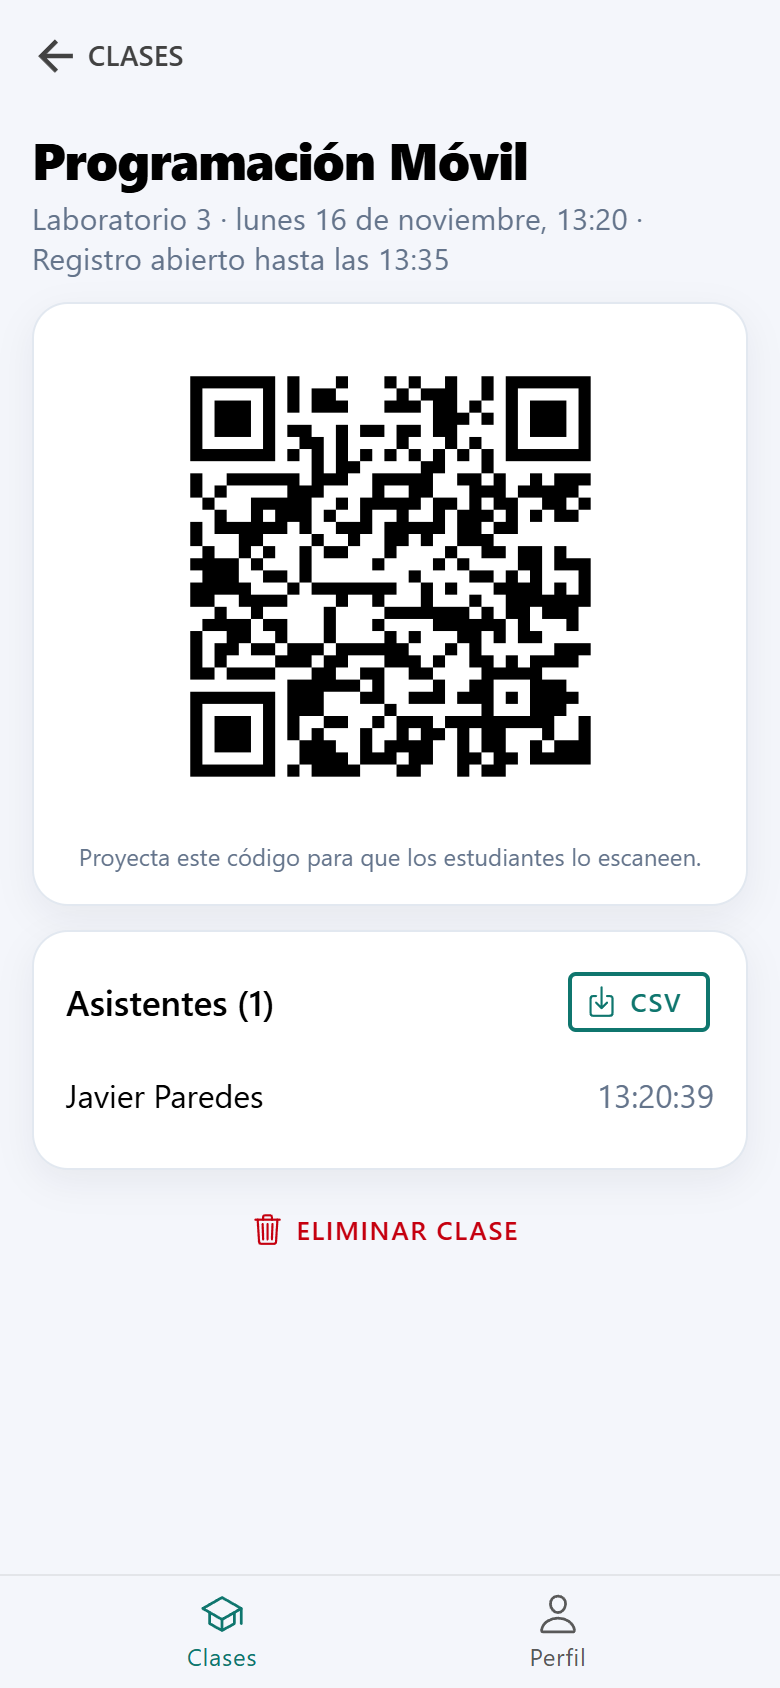
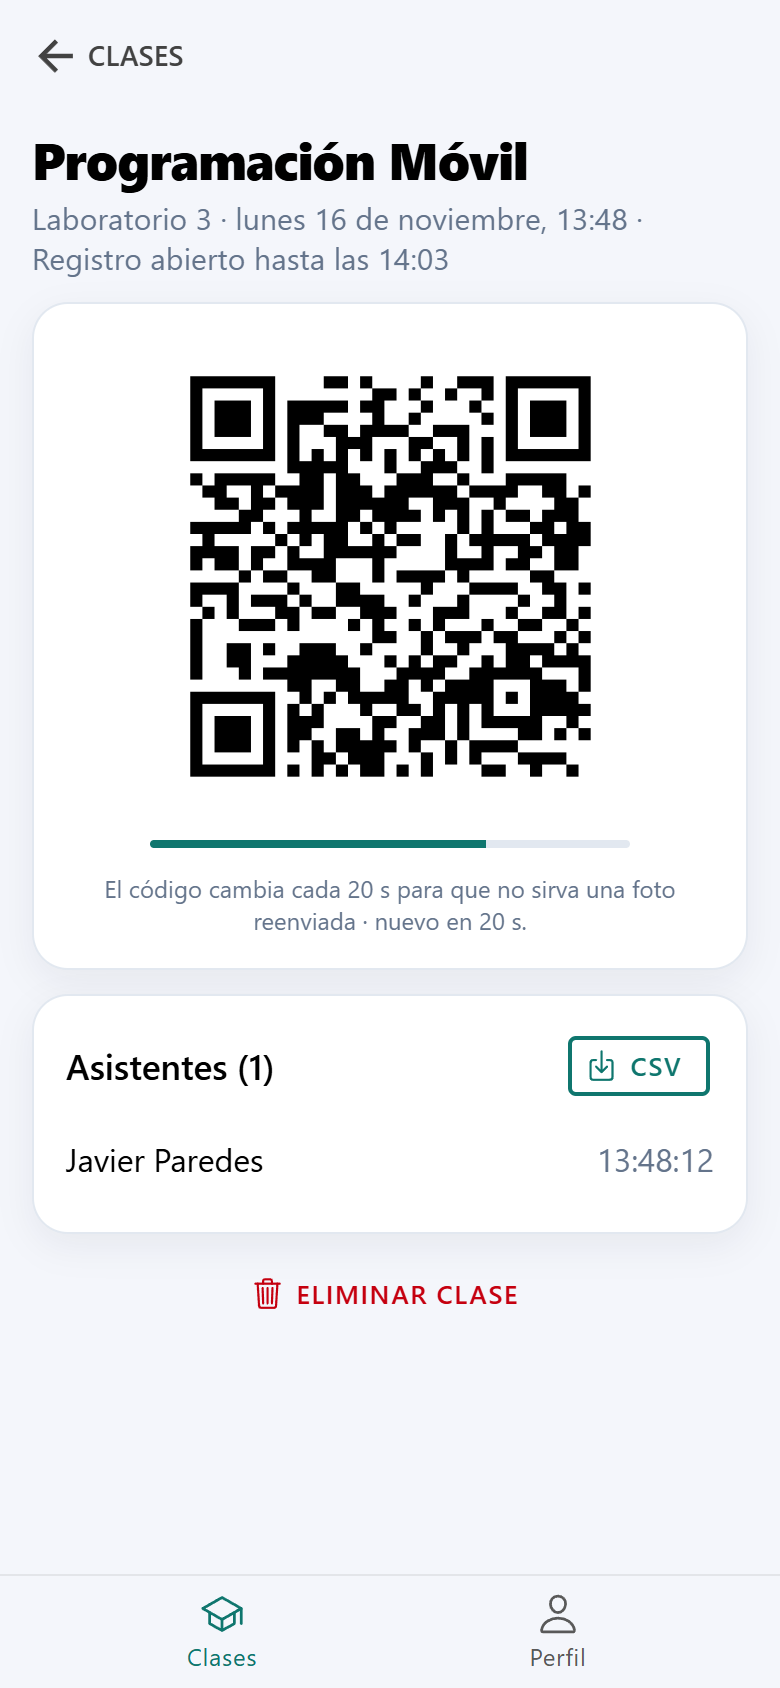
feat: rotating QR tokens, installable PWA
The class QR now changes every 20 seconds so forwarded photos expire.

diff --git a/src/app/pages/class-detail/class-detail.page.ts b/src/app/pages/class-detail/class-detail.page.ts
@@ -17,7 +17,7 @@ import QRCode from 'qrcode';
 
 import { Backend } from '../../core/backend';
 import type { Attendance, ClassSession } from '../../core/models';
-import { encodePayload, toCsv } from '../../core/qr';
+import { ROTATION_SECONDS, currentStep, encodePayload, rotatingToken, toCsv } from '../../core/qr';
 import { UiService } from '../../core/ui.service';
 
 @Component({
@@ -40,13 +40,21 @@ export class ClassDetailPage {
   protected readonly attendees = signal<Attendance[]>([]);
   protected readonly qr = signal('');
   protected readonly missing = signal(false);
+  /** Segundos que faltan para que el QR cambie. */
+  protected readonly remaining = signal(ROTATION_SECONDS);
+  protected readonly rotation = ROTATION_SECONDS;
+  private step = -1;
 
   constructor() {
     addIcons({ downloadOutline, trashOutline });
     effect(() => void this.load(this.id()));
     // Actualiza la lista de asistentes mientras la pantalla está abierta.
     const timer = setInterval(() => void this.refreshAttendees(), 4000);
-    inject(DestroyRef).onDestroy(() => clearInterval(timer));
+    const clock = setInterval(() => void this.tick(), 1000);
+    inject(DestroyRef).onDestroy(() => {
+      clearInterval(timer);
+      clearInterval(clock);
+    });
   }
 
   private async load(id: string): Promise<void> {
@@ -54,14 +62,27 @@ export class ClassDetailPage {
     this.missing.set(!session);
     this.session.set(session);
     if (!session) return;
+    this.step = -1;
+    await this.tick();
+    await this.refreshAttendees();
+  }
+
+  /** Actualiza la cuenta regresiva y regenera el QR cuando cambia la ventana de tiempo. */
+  private async tick(): Promise<void> {
+    const session = this.session();
+    if (!session) return;
+    const step = currentStep();
+    this.remaining.set(ROTATION_SECONDS - (Math.floor(Date.now() / 1000) % ROTATION_SECONDS));
+    if (step === this.step) return;
+    this.step = step;
+    const code = await rotatingToken(session.code, step);
     this.qr.set(
-      await QRCode.toDataURL(encodePayload({ sessionId: session.id, code: session.code }), {
+      await QRCode.toDataURL(encodePayload({ sessionId: session.id, code }), {
         width: 480,
         margin: 2,
         errorCorrectionLevel: 'M',
       }),
     );
-    await this.refreshAttendees();
   }
 
   private async refreshAttendees(): Promise<void> {

diff --git a/src/app/core/local.backend.spec.ts b/src/app/core/local.backend.spec.ts
@@ -1,5 +1,6 @@
 import { LocalBackend } from './local.backend';
 import { AppError } from './models';
+import { currentStep, rotatingToken } from './qr';
 
 describe('LocalBackend', () => {
   let backend: LocalBackend;
@@ -20,8 +21,9 @@ describe('LocalBackend', () => {
       startsAt: inMinutes(-5),
       expiresAt: inMinutes(30),
     });
-    await backend.checkIn(student, s.id, s.code);
-    await expect(backend.checkIn(student, s.id, s.code)).rejects.toBeInstanceOf(AppError);
+    const token = await rotatingToken(s.code);
+    await backend.checkIn(student, s.id, token);
+    await expect(backend.checkIn(student, s.id, token)).rejects.toBeInstanceOf(AppError);
     expect(await backend.listAttendance(s.id)).toHaveLength(1);
   });
 
@@ -41,7 +43,23 @@ describe('LocalBackend', () => {
       expiresAt: inMinutes(-30),
     });
     await expect(backend.checkIn(student, open.id, 'AAAAAA')).rejects.toBeInstanceOf(AppError);
-    await expect(backend.checkIn(student, closed.id, closed.code)).rejects.toBeInstanceOf(AppError);
+    await expect(backend.checkIn(student, closed.id, await rotatingToken(closed.code))).rejects.toBeInstanceOf(
+      AppError,
+    );
+  });
+
+  it('rechaza un QR antiguo y el código secreto sin rotar', async () => {
+    const teacher = await backend.signIn('docente@demo.cl', 'demo1234');
+    const student = await backend.signIn('alumno@demo.cl', 'demo1234');
+    const s = await backend.createSession(teacher, {
+      course: 'Redes',
+      room: 'D-1',
+      startsAt: inMinutes(-5),
+      expiresAt: inMinutes(30),
+    });
+    const stale = await rotatingToken(s.code, currentStep() - 5);
+    await expect(backend.checkIn(student, s.id, stale)).rejects.toBeInstanceOf(AppError);
+    await expect(backend.checkIn(student, s.id, s.code)).rejects.toBeInstanceOf(AppError);
   });
 
   it('elimina los registros al borrar una clase', async () => {
@@ -53,7 +71,7 @@ describe('LocalBackend', () => {
       startsAt: inMinutes(-1),
       expiresAt: inMinutes(20),
     });
-    await backend.checkIn(student, s.id, s.code);
+    await backend.checkIn(student, s.id, await rotatingToken(s.code));
     await backend.deleteSession(s.id);
     expect(await backend.listMyAttendance(student.uid)).toEqual([]);
   });

diff --git a/src/app/core/qr.ts b/src/app/core/qr.ts
@@ -1,7 +1,9 @@
 const PREFIX = 'attendqr:';
+const ALPHABET = 'ABCDEFGHJKLMNPQRSTUVWXYZ23456789';
 
 export interface QrPayload {
   sessionId: string;
+  /** Token rotativo (no el código secreto de la clase). */
   code: string;
 }
 
@@ -17,9 +19,32 @@ export function decodePayload(text: string): QrPayload | null {
 }
 
 export function randomCode(): string {
-  const alphabet = 'ABCDEFGHJKLMNPQRSTUVWXYZ23456789';
   const bytes = crypto.getRandomValues(new Uint8Array(6));
-  return Array.from(bytes, (b) => alphabet[b % alphabet.length]).join('');
+  return Array.from(bytes, (b) => ALPHABET[b % ALPHABET.length]).join('');
+}
+
+/** Cada cuántos segundos cambia el QR de una clase. */
+export const ROTATION_SECONDS = 20;
+
+/** Ventana de tiempo actual (cambia cada `ROTATION_SECONDS`). */
+export function currentStep(now = Date.now()): number {
+  return Math.floor(now / (ROTATION_SECONDS * 1000));
+}
+
+/**
+ * Token de 6 caracteres derivado del código secreto de la clase y de la ventana de tiempo.
+ * Como cambia cada pocos segundos, una foto del QR reenviada a otra persona deja de servir.
+ */
+export async function rotatingToken(secret: string, step = currentStep()): Promise<string> {
+  const data = new TextEncoder().encode(`${secret}:${step}`);
+  const digest = new Uint8Array(await crypto.subtle.digest('SHA-256', data));
+  return Array.from(digest.slice(0, 6), (b) => ALPHABET[b % ALPHABET.length]).join('');
+}
+
+/** Acepta el token de la ventana actual y el de la anterior (para tolerar el tiempo de escaneo). */
+export async function isValidToken(secret: string, token: string, now = Date.now()): Promise<boolean> {
+  const step = currentStep(now);
+  return token === (await rotatingToken(secret, step)) || token === (await rotatingToken(secret, step - 1));
 }
 
 /** Genera un CSV (con BOM para que Excel respete los acentos). */

diff --git a/src/app/core/firebase.backend.ts b/src/app/core/firebase.backend.ts
@@ -4,7 +4,7 @@ import type { Firestore } from 'firebase/firestore';
 import { Backend } from './backend';
 import type { Attendance, ClassSession, FirebaseConfig, NewSession, Role, UserProfile } from './models';
 import { AppError } from './models';
-import { randomCode } from './qr';
+import { isValidToken, randomCode } from './qr';
 
 const AUTH_ERRORS: Record<string, string> = {
   'auth/invalid-credential': 'Correo o contraseña incorrectos.',
@@ -132,7 +132,10 @@ export class FirebaseBackend extends Backend {
   async checkIn(student: UserProfile, sessionId: string, code: string): Promise<Attendance> {
     try {
       const session = await this.getSession(sessionId);
-      if (!session || session.code !== code) throw new AppError('Este código QR no es válido.');
+      if (!session) throw new AppError('Este código QR no es válido.');
+      if (!(await isValidToken(session.code, code))) {
+        throw new AppError('El código QR expiró. Escanea el que se muestra ahora.');
+      }
       if (Date.now() > new Date(session.expiresAt).getTime()) throw new AppError('La clase ya cerró el registro.');
       const { db } = await this.init();
       const { doc, getDoc, setDoc } = await import('firebase/firestore');

diff --git a/src/app/core/qr.spec.ts b/src/app/core/qr.spec.ts
@@ -1,4 +1,4 @@
-import { decodePayload, encodePayload, randomCode, toCsv } from './qr';
+import { decodePayload, encodePayload, isValidToken, randomCode, rotatingToken, toCsv } from './qr';
 
 describe('qr', () => {
   it('codifica y decodifica el contenido del QR', () => {
@@ -13,6 +13,19 @@ describe('qr', () => {
 
   it('genera códigos de 6 caracteres válidos', () => {
     expect(randomCode()).toMatch(/^[A-Z2-9]{6}$/);
+  });
+
+  it('el token cambia en cada ventana y tolera la anterior', async () => {
+    const now = 1_700_000_000_000;
+    const current = await rotatingToken('SECRET', Math.floor(now / 20_000));
+    const previous = await rotatingToken('SECRET', Math.floor(now / 20_000) - 1);
+    const old = await rotatingToken('SECRET', Math.floor(now / 20_000) - 2);
+    expect(current).toMatch(/^[A-Z2-9]{6}$/);
+    expect(current).not.toBe(previous);
+    expect(await isValidToken('SECRET', current, now)).toBe(true);
+    expect(await isValidToken('SECRET', previous, now)).toBe(true);
+    expect(await isValidToken('SECRET', old, now)).toBe(false);
+    expect(await isValidToken('OTRO', current, now)).toBe(false);
   });
 
   it('escapa comillas en el CSV', () => {

diff --git a/src/app/core/local.backend.ts b/src/app/core/local.backend.ts
@@ -1,7 +1,7 @@
 import { Backend } from './backend';
 import type { Attendance, ClassSession, NewSession, Role, UserProfile } from './models';
 import { AppError } from './models';
-import { randomCode } from './qr';
+import { isValidToken, randomCode } from './qr';
 
 interface StoredUser extends UserProfile {
   passwordHash: string;
@@ -142,7 +142,10 @@ export class LocalBackend extends Backend {
 
   async checkIn(student: UserProfile, sessionId: string, code: string): Promise<Attendance> {
     const session = await this.getSession(sessionId);
-    if (!session || session.code !== code) throw new AppError('Este código QR no es válido.');
+    if (!session) throw new AppError('Este código QR no es válido.');
+    if (!(await isValidToken(session.code, code))) {
+      throw new AppError('El código QR expiró. Escanea el que se muestra ahora.');
+    }
     if (Date.now() > new Date(session.expiresAt).getTime()) throw new AppError('La clase ya cerró el registro.');
     const id = `${sessionId}_${student.uid}`;
     const all = this.attendance();

diff --git a/src/main.ts b/src/main.ts
@@ -1,6 +1,6 @@
 import { registerLocaleData } from '@angular/common';
 import localeEsCl from '@angular/common/locales/es-CL';
-import { LOCALE_ID, enableProdMode } from '@angular/core';
+import { LOCALE_ID, enableProdMode, isDevMode } from '@angular/core';
 import { bootstrapApplication } from '@angular/platform-browser';
 import {
   RouteReuseStrategy,
@@ -9,6 +9,7 @@ import {
   withPreloading,
   PreloadAllModules,
 } from '@angular/router';
+import { provideServiceWorker } from '@angular/service-worker';
 import { IonicRouteStrategy, provideIonicAngular } from '@ionic/angular';
 
 import { AppComponent } from './app/app.component';
@@ -31,5 +32,9 @@ bootstrapApplication(AppComponent, {
     },
     provideIonicAngular(),
     provideRouter(routes, withPreloading(PreloadAllModules), withComponentInputBinding()),
+    provideServiceWorker('ngsw-worker.js', {
+      enabled: !isDevMode(),
+      registrationStrategy: 'registerWhenStable:30000',
+    }),
   ],
 }).catch((err: unknown) => console.error(err));

diff --git a/src/app/core/backend.ts b/src/app/core/backend.ts
@@ -15,8 +15,8 @@ export abstract class Backend {
   abstract createSession(teacher: UserProfile, data: NewSession): Promise<ClassSession>;
   abstract deleteSession(id: string): Promise<void>;
 
-  /** Registra la asistencia validando el código y la vigencia de la clase. */
-  abstract checkIn(student: UserProfile, sessionId: string, code: string): Promise<Attendance>;
+  /** Registra la asistencia validando el token rotativo del QR y la vigencia de la clase. */
+  abstract checkIn(student: UserProfile, sessionId: string, token: string): Promise<Attendance>;
   abstract listAttendance(sessionId: string): Promise<Attendance[]>;
   abstract listMyAttendance(studentId: string): Promise<Attendance[]>;
 }

diff --git a/src/app/pages/class-detail/class-detail.page.html b/src/app/pages/class-detail/class-detail.page.html
@@ -18,7 +18,11 @@
     @if (qr()) {
     <img [src]="qr()" alt="Código QR para registrar asistencia a {{ s.course }}" width="240" height="240" />
     }
-    <small>Proyecta este código para que los estudiantes lo escaneen.</small>
+    <div class="bar" aria-hidden="true"><span [style.width.%]="(remaining() / rotation) * 100"></span></div>
+    <small
+      >El código cambia cada {{ rotation }} s para que no sirva una foto reenviada · nuevo en {{ remaining() }}
+      s.</small
+    >
   </section>
 
   <section class="aq-card">

diff --git a/src/index.html b/src/index.html
@@ -15,8 +15,11 @@
     <meta name="msapplication-tap-highlight" content="no" />
     <link rel="icon" type="image/svg+xml" href="assets/icon/favicon.svg" />
     <meta name="mobile-web-app-capable" content="yes" />
+    <link rel="manifest" href="manifest.webmanifest" />
+    <link rel="apple-touch-icon" href="icons/icon-192x192.png" />
   </head>
   <body>
     <app-root></app-root>
+    <noscript>Activa JavaScript para usar esta aplicación.</noscript>
   </body>
 </html>

diff --git a/src/app/core/models.ts b/src/app/core/models.ts
@@ -18,7 +18,7 @@ export interface ClassSession {
   startsAt: string;
   /** Después de esta hora ya no se acepta asistencia (ISO 8601). */
   expiresAt: string;
-  /** Código aleatorio incluido en el QR para evitar que se adivine una sesión. */
+  /** Secreto aleatorio de la clase; de él se derivan los tokens rotativos del QR. */
   code: string;
 }
 

diff --git a/src/app/pages/class-detail/class-detail.page.scss b/src/app/pages/class-detail/class-detail.page.scss
@@ -17,6 +17,22 @@
   }
 }
 
+.bar {
+  width: 240px;
+  max-width: 100%;
+  height: 4px;
+  border-radius: 999px;
+  background: var(--aq-border);
+  overflow: hidden;
+
+  span {
+    display: block;
+    height: 100%;
+    background: var(--ion-color-primary);
+    transition: width 1s linear;
+  }
+}
+
 .head {
   display: flex;
   align-items: center;
